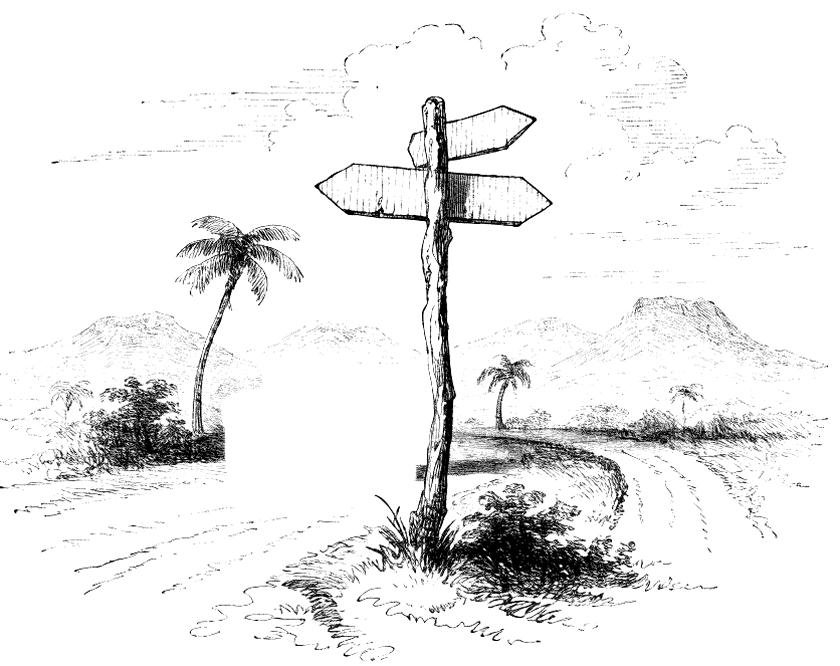
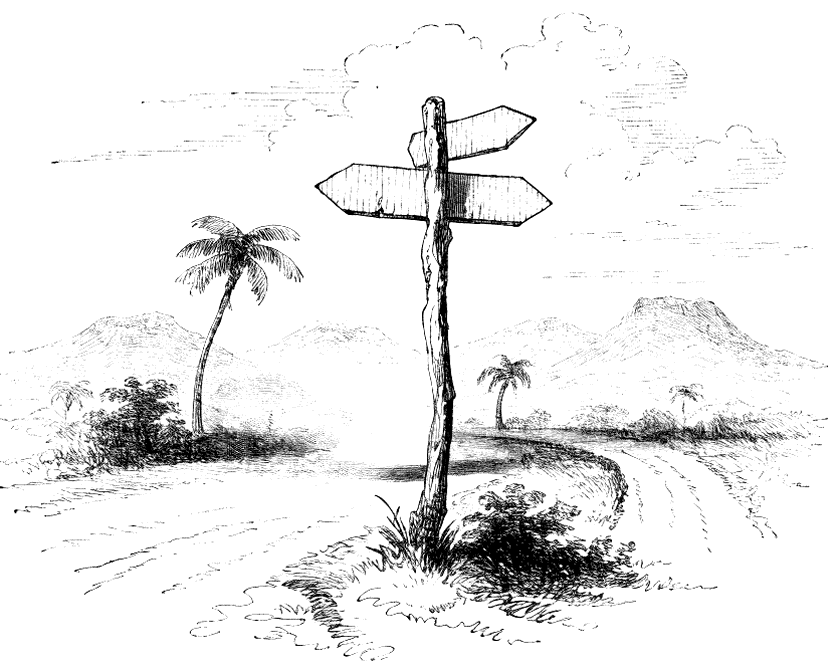
feat(errors): fill the error vignettes' holes, and fix what review found (#244)
- Recraft erase_region filled the old truck, gate leaves and lock, and the leaning stack and left crate out of the approved sources (3 credits); masks and results kept in sources/motion/fill, the filled sources rebuilt by motion.py paste
- The truck waits for the plate's reveal (0.8 s delay, 3.0 s drive, still at rest by 3.8 s); the gate's leaves share one animation rule; EtchedVignette takes the whole ErrorScene
- motion.py: drop the dead bare-paper fallback and a comment about an option that does not exist; prepare-etching.py: help string lists art and origin
- README: fills, how the masks reached Recraft, credits (19 in all, balance 948), measured weights, the open items restored, and the truck and JS wording corrected

Changed region(s): [[0.2476, 0.6306, 0.4952, 0.7207], [0.3095, 0.5706, 0.3405, 0.6006]]

diff --git a/apps/web/src/lib/components/EtchedVignette.svelte b/apps/web/src/lib/components/EtchedVignette.svelte
@@ -14,10 +14,7 @@
   import { partMask, partStyle } from "$lib/etched-parts.js";
   import { cn } from "$lib/utils.js";
 
-  let {
-    scene,
-    class: className
-  }: { scene: Pick<ErrorScene, "name" | "image" | "ratio" | "parts">; class?: string } = $props();
+  let { scene, class: className }: { scene: ErrorScene; class?: string } = $props();
 
   // `no-inline` keeps the small masks as files, out of the JS bundle.
   const urls = import.meta.glob<string>("$lib/assets/errors/vmb-error-*-840.webp", {
@@ -37,7 +34,6 @@
 <div
   aria-hidden="true"
   class={cn("etched-vignette pointer-events-none relative select-none", className)}
-  data-scene={scene.name}
   style="--vignette-image: url({scene.image}); --vignette-ratio: {scene.ratio}"
 >
   <div class="plate bg-etching"></div>
@@ -147,16 +143,18 @@
   }
 
   /* The gate's leaves swing shut from open, each about the hinge at its pillar. */
+  [data-part^="leaf-"] {
+    animation: leaf-shut var(--duration-etch-part) var(--easing-settle) var(--delay-etch-gate) both;
+  }
+
   [data-part="leaf-left"] {
     --open: 78deg;
     transform-origin: 0 50%;
-    animation: leaf-shut var(--duration-etch-part) var(--easing-settle) var(--delay-etch-gate) both;
   }
 
   [data-part="leaf-right"] {
     --open: -78deg;
     transform-origin: 100% 50%;
-    animation: leaf-shut var(--duration-etch-part) var(--easing-settle) var(--delay-etch-gate) both;
   }
 
   /* Then the chain and padlock drop onto the shut gate. */

diff --git a/apps/web/src/lib/error-page.ts b/apps/web/src/lib/error-page.ts
@@ -18,7 +18,7 @@ export interface ErrorScene {
 }
 
 // The manifests are prepare-etching.py's: each part's box at rest, in the plate's percentages.
-const withOpacity = (manifest: { parts: Record<string, EtchedPart> }, opaque: string[]) =>
+const markOpaque = (manifest: { parts: Record<string, EtchedPart> }, opaque: string[]) =>
   Object.fromEntries(
     Object.entries(manifest.parts).map(([name, part]) => [
       name,
@@ -38,13 +38,13 @@ export interface ErrorPageContent {
 // follows the status, never chance, so the server and the browser draw the
 // same picture and a refresh doesn't swap it.
 export const ERROR_SCENES = {
-  road: { name: "road", image: road, ratio: 1.261, parts: withOpacity(roadParts, ["truck"]) },
-  gate: { name: "gate", image: gate, ratio: 2.111, parts: withOpacity(gateParts, []) },
+  road: { name: "road", image: road, ratio: 1.261, parts: markOpaque(roadParts, ["truck"]) },
+  gate: { name: "gate", image: gate, ratio: 2.111, parts: markOpaque(gateParts, []) },
   crates: {
     name: "crates",
     image: crates,
     ratio: 0.876,
-    parts: withOpacity(cratesParts, ["stack", "crate"])
+    parts: markOpaque(cratesParts, ["stack", "crate"])
   }
 } as const satisfies Record<ErrorScene["name"], ErrorScene>;
 

diff --git a/apps/web/src/app.css b/apps/web/src/app.css
@@ -130,8 +130,8 @@
    * truck pulls away down the lost road, the yard gate swings shut and is
    * locked, the stack of crates topples and one crate tumbles after it.
    */
-  --duration-etch-drive: 3200ms;
-  --delay-etch-drive: 600ms;
+  --duration-etch-drive: 3000ms;
+  --delay-etch-drive: 800ms;
   --delay-etch-gate: 800ms;
   --delay-etch-lock: 3000ms;
   --delay-etch-topple: 900ms;

diff --git a/docs/design/error-states/motion.py b/docs/design/error-states/motion.py
@@ -88,9 +88,9 @@ GROW = 4  # px the holes are grown by
 
 # The generated art, set on the source's canvas. `target` is where it goes, in the
 # source's pixels: `box` stretches the art's ink to a box, `bottom` scales it to
-# `width` and stands it on that point. `pivot` (the ink's bottom centre unless
-# given) is the point it is rotated about by `angle` degrees clockwise, and the
-# point CSS rotates about when the part moves.
+# `width` and stands it on that point. the ink's bottom centre is the point it is
+# rotated about by `angle` degrees clockwise, and the point CSS rotates about
+# when the part moves.
 ART = {
     "road": {
         "truck": {"art": "truck-2.png", "opaque": True, "width": 205, "bottom": (532, 601)},
@@ -132,17 +132,12 @@ def patches():
 
 
 def paste():
-    """Set Recraft's fills back, or, where there is none yet, bare paper (a stand-in that ships nowhere)."""
+    """Set Recraft's fills back into the sources, and write the filled sources prepare-etching.py takes."""
     for scene, config in HOLES.items():
         x0, y0, x1, y1 = config["patch"]
         filled = Image.open(SOURCES / SCENES[scene]["source"]).convert("L")
         sent = Image.open(FILL / f"{scene}-mask.png").convert("L").filter(ImageFilter.GaussianBlur(1))
-        result_path = FILL / f"{scene}-result.png"
-        if result_path.exists():
-            result = Image.open(result_path).convert("L").resize((x1 - x0, y1 - y0), Image.Resampling.LANCZOS)
-        else:
-            print(f"{scene}: no Recraft result yet, filling with paper")
-            result = Image.new("L", (x1 - x0, y1 - y0), 255)
+        result = Image.open(FILL / f"{scene}-result.png").convert("L").resize((x1 - x0, y1 - y0), Image.Resampling.LANCZOS)
         filled.paste(result, (x0, y0), sent)
         target = SOURCES / f"{scene}-filled.png"
         filled.save(target, optimize=True)

diff --git a/docs/design/etched-login/prepare-etching.py b/docs/design/etched-login/prepare-etching.py
@@ -56,10 +56,11 @@ parser.add_argument("--fade-sides", type=float, default=0, help="fraction of wid
 parser.add_argument("--fade-bottom", type=float, default=0, help="fraction of height to fade out at the bottom")
 parser.add_argument("--pad-to", type=float, default=0, help="add blank paper at both sides to reach this width:height ratio")
 parser.add_argument("--widths", type=int, nargs="+", default=[2400, 1200], help="widths to write, in pixels")
-parser.add_argument("--parts", help="JSON of moving parts: {name: {polygon: [[x, y], ...], opaque?, rest?, overlay?}}")
+parser.add_argument("--parts", help="JSON of moving parts: {name: {polygon: [[x, y], ...], opaque?, rest?, overlay?, art?, origin?}}")
 parser.add_argument("--manifest", help="where to write the parts' boxes in plate percentages")
 parser.add_argument("--plate-source", help="draw the plate from this image (the source with the parts' holes filled)")
 args = parser.parse_args()
+
 
 def ink_alpha(path):
     gray = Image.open(path).convert("L")

diff --git a/docs/design/error-states/README.md b/docs/design/error-states/README.md
@@ -45,7 +45,7 @@ An unexpected server failure also gets a short reference and its time from `hand
 
 ### Parts that move (#244)
 
-Each part is a single iteration that ends at its natural style, which is its resting place; timings are motion tokens in `app.css`. Everything is at rest by 3.8 s. The vignette clips at its edge, so a part that leaves is cut there.
+Each part is a single iteration that ends at its natural style, which is its resting place; timings are motion tokens in `app.css`. Everything is at rest by 3.8 s. The vignette clips at its edge, so a leaf that swings or a crate that turns out of the plate is cut there; the truck fades out before it gets near it.
 
 | Scene  | Part        | Motion                                                                                                                                            | Delay → end |
 | ------ | ----------- | ------------------------------------------------------------------------------------------------------------------------------------------------- | ----------- |
@@ -99,7 +99,7 @@ Road 836 × 663, gate 838 × 397, crates 538 × 614 (the source's ink, before sc
 
 The parts are new Recraft art in the vignette style, set where the old part stood, and Recraft fills the holes the old parts leave. Opaque parts (truck, stack, crate) hide the plate behind them, as in `etched-scenes`: a `--background` backing through the mask's alpha, `--etching` through its luminance. The gate's leaves and lock are plain ink over the yard.
 
-### Generation (1 Oct, 16 credits)
+### Generation (1 Oct, 16 credits; 19 with the fills)
 
 `recraftv4_1`, two images per prompt, 2 credits each (4 credits a prompt; balance 967 → 951). The shared frame is the vignettes' (above) with the scene sentence swapped in and "Nothing else: no ground, no shadow, no scenery, no people" so each part is alone on white paper.
 
@@ -125,17 +125,21 @@ The parts are new Recraft art in the vignette style, set where the old part stoo
 - The truck is scaled to 205 source pixels wide and stood on the road where the stopped truck was. The leaves are stretched to the leaf boxes between the pillars (the right leaf mirrored; their posts overlap at the middle, so the two read as one). The stack and crate are scaled and then turned about a pivot at their foot by the lean of the toppled art (stack 9°, crate −16°), and CSS turns them back about the same pivot (`origin` in the manifest) to start them upright.
 - An opaque part's silhouette is the convex hull of its ink. The gate's lock (chain and padlock) is not generated: it is cut from the source where it hangs, as the leaves' ink alone would have left the gate unlocked.
 
-### Filling the holes
+### Filling the holes (1 Oct, 3 credits)
 
-`motion.py patches` crops a 512 × 512 patch of each source around its holes and draws the mask: the old parts' outlines (traced by hand on the source), grown by 4px. Recraft's `erase_region` fills them (content-aware, no prompt, 1 credit a call, 3 calls) and `motion.py paste` sets each result back inside the mask Recraft was sent.
+`motion.py patches` crops a 512 × 512 patch of each source around its holes and draws the mask: the old parts' outlines (traced by hand on the source), grown by 4px. Recraft's `erase_region` fills them (content-aware, no prompt, 1 credit a call) and `motion.py paste` sets each result back inside the mask Recraft was sent. Only the masks and results are kept (`sources/motion/fill/`); the patches and the filled sources are rebuilt from the sources. The balance went 951 → 948.
 
-| Scene  | Patch                 | Hole                                 |
-| ------ | --------------------- | ------------------------------------ |
-| Road   | (300, 360)–(812, 872) | The stopped truck                    |
-| Gate   | (330, 230)–(842, 742) | Both leaves and the lock             |
-| Crates | (360, 250)–(872, 762) | The leaning stack and the left crate |
+| Scene  | Patch                 | Hole                                 | Result                                                                                                                                                    |
+| ------ | --------------------- | ------------------------------------ | --------------------------------------------------------------------------------------------------------------------------------------------------------- |
+| Road   | (300, 360)–(812, 872) | The stopped truck                    | **Used.** The hills, the left bush and the road's hatching carry through where the truck stood.                                                           |
+| Gate   | (330, 230)–(842, 742) | Both leaves and the lock             | **Used.** An open yard between the pillars with the ground fading out; the containers drawn behind the bars are gone, the fences either side keep theirs. |
+| Crates | (360, 250)–(872, 762) | The leaning stack and the left crate | **Used.** The pile and the doorway are redrawn. The doorway's left half is a pale drape rather than the dark opening, which the stack hides at rest.      |
 
-**Not done yet:** these three `erase_region` calls. Their masks must be at a public URL and the repo is private; the secret-gist route from #243 was refused in this session, so until the fills come back the holes are bare paper (`motion.py paste` writes them that way, and says so). The hole in the road's left bush and hills, the gate's interior and the doorway behind the stack all show as white boxes until then. Expected cost: 3 credits.
+An attempt to thin the gate's mask to just the bars and rails failed: the bars are drawn as outlined double lines, so a stroke-width threshold caught only fragments. The mask is the whole leaf outline instead.
+
+### Getting the masks to Recraft
+
+As in #243, `request_upload_url` stores every upload as an RGB WebP, so a mask uploaded there is refused. The three mask PNGs went up as a secret GitHub gist (pushed with git, with `gh` as the credential helper for that one push), `erase_region` read them from their `gist.githubusercontent.com` raw URLs, and the gist was deleted straight after (its URLs answer 404). The patches went through `request_upload_url`; each upload took about two minutes from the office network, and the Recraft MCP session expired once in between and reconnected.
 
 ### Weight
 
@@ -143,11 +147,11 @@ Budget: at most 60 kB of moving-part art per page at each breakpoint (ADR-0040).
 
 | Page   | Moving parts                             | Plate (before → after) |
 | ------ | ---------------------------------------- | ---------------------- |
-| Road   | **4.0 KiB**: truck 4.0                   | 60 → 52                |
-| Gate   | **11.7 KiB**: leaves 5.4 + 5.2, lock 1.1 | 62 → 31                |
-| Crates | **22.5 KiB**: stack 15.5, crate 7.0      | 107 → 76               |
+| Road   | **4.1 KiB**: truck 4.1                   | 60 → 55                |
+| Gate   | **16.5 KiB**: leaves 7.8 + 7.6, lock 1.1 | 62 → 34                |
+| Crates | **22.6 KiB**: stack 15.4, crate 7.2      | 107 → 89               |
 
-The plates' sizes before are the single masks the first round shipped. **JS:** none. The parts are CSS keyframes on the motion tokens, and the masks are imported with `?no-inline`, so the build emits each as a file.
+The plates' sizes before are the single masks the first round shipped. **JS:** no motion code: the parts are CSS keyframes on the motion tokens, and the masks are imported with `?no-inline`, so the build emits each as a file. The three manifests, the mask-URL map and `partMask` do add a little to the error route's chunk, which is not measured here.
 
 ## Checked
 
@@ -156,15 +160,14 @@ The plates' sizes before are the single masks the first round shipped. **JS:** n
 - `AuthShell` after the header and footer moved into `SiteHeader` and `SiteFooter`: `/login` is pixel-identical to before at 1440 × 900, 1024 × 923 and 390 × 844 (reduced motion).
 - `pnpm typecheck`, `pnpm lint` and `pnpm test` in `apps/web`.
 - After the copy review (`interfaces:better-writing`) and the copy field: the 500 page at 1440 × 900 (light, and dark after a real copy in Chromium, which put the reference on the clipboard) and 390 × 844 (light), looked at by eye. It measures 844, 768, 923 and 900px tall at 390 × 844, 1366 × 768, 1024 × 923 and 1440 × 900, so it still fits; the field's extra row was paid for on mobile with a 10rem vignette and 2rem page padding. The signed-in "Go to dashboard" button and the blocked-clipboard hint are covered by component tests only.
-
 - Motion (#244): frames of every scene at 0–4.2 s every 0.6 s, at 1440 × 900 (light, dark) and 390 × 844, by pausing every animation at set times. `error-page.test.ts` checks every part's box, mask size, ratio and pivot against its manifest; `etched-vignette.svelte.test.ts` renders each scene in Chromium and checks that every part is drawn and comes to rest at its box, that every inked layer is drawn through its art, that every part plays once and ends within 4 s (3.8 s at most), that reduced motion leaves no running animation, that the road's truck is gone from the finished frame, and that the lock drops after the leaves are shut.
 
 ## Not yet checked
 
-- **The three `erase_region` fills (see _Filling the holes_)**, and with them the finished plates: until they land the holes in the plates are bare paper, so the captures show white boxes where the old truck, leaves and stack stood.
-- Captures at every review viewport (only 1440 × 900 and 390 × 844 were taken, and before the fills).
+- Captures at every review viewport, light and dark (only 1440 × 900 and 390 × 844 were taken, the first fills only at 1440 × 900 light).
 - Clear zones against the copy, and the page fitting at 390 × 844 and 1366 × 768 with the parts moving (the vignette's box is unchanged, so it should).
 - `mask-mode: luminance` on Safari and Firefox (only Chromium was rendered), as in the auth round.
-- Owner review in a real browser (step 7).
+- **For owner review:** the generated truck, leaves, stack and crate are drawn in a cleaner, more regular hand than the approved plates, since Recraft draws each one alone; and whether the gate's lost container backdrop and the crates' pale drape in the doorway matter.
 - A real 500 on Cloudflare Pages, and that its reference shows up in the Pages logs.
 - Screen readers, 200% zoom.
+- Owner review in a real browser (step 7).
